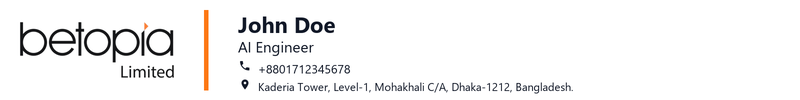
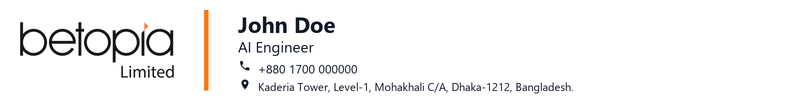
Update default phone number and format to +880 1700 000000

Changed region(s): [[0.3438, 0.63, 0.4688, 0.75]]

diff --git a/js/app.js b/js/app.js
@@ -49,7 +49,7 @@ document.addEventListener('DOMContentLoaded', async () => {
     const data = {
       name: (inputName && inputName.value.trim()) || 'John Doe',
       role: (inputRole && inputRole.value.trim()) || 'AI Engineer',
-      phone: (inputPhone && inputPhone.value.trim()) || '+8801712345678',
+      phone: (inputPhone && inputPhone.value.trim()) || '+880 1700 000000',
       address: COMPANY_ADDRESS,
       transparentBg: inputTransparent ? inputTransparent.checked : false,
       preset: selectedPreset
@@ -136,7 +136,7 @@ document.addEventListener('DOMContentLoaded', async () => {
   btnReset.addEventListener('click', () => {
     if (inputName) inputName.value = 'John Doe';
     if (inputRole) inputRole.value = 'AI Engineer';
-    if (inputPhone) inputPhone.value = '+8801712345678';
+    if (inputPhone) inputPhone.value = '+880 1700 000000';
     if (inputTransparent) inputTransparent.checked = false;
 
     scheduleRender(10);

diff --git a/index.html b/index.html
@@ -102,8 +102,8 @@
                 <path
                   d="M22 16.92v3a2 2 0 0 1-2.18 2 19.79 19.79 0 0 1-8.63-3.07 19.5 19.5 0 0 1-6-6 19.79 19.79 0 0 1-3.07-8.67A2 2 0 0 1 4.11 2h3a2 2 0 0 1 2 1.72 12.84 12.84 0 0 0 .7 2.81 2 2 0 0 1-.45 2.11L8.09 9.91a16 16 0 0 0 6 6l1.27-1.27a2 2 0 0 1 2.11-.45 12.84 12.84 0 0 0 2.81.7A2 2 0 0 1 22 16.92z" />
               </svg>
-              <input type="tel" id="input-phone" class="form-input" value="+8801712345678"
-                placeholder="e.g. +8801712345678" autocomplete="tel">
+              <input type="tel" id="input-phone" class="form-input" value="+880 1700 000000"
+                placeholder="e.g. +880 1700 000000" autocomplete="tel">
             </div>
           </div>
 

diff --git a/js/signatureRenderer.js b/js/signatureRenderer.js
@@ -155,7 +155,7 @@ class SignatureRenderer {
   async render({
     name = 'John Doe',
     role = 'AI Engineer',
-    phone = '+8801712345678',
+    phone = '+880 1700 000000',
     address = 'Kaderia Tower, Level-1, Mohakhali C/A, Dhaka-1212, Bangladesh.',
     transparentBg = false,
     preset = this.currentPreset

diff --git a/generate_signature.py b/generate_signature.py
@@ -89,7 +89,7 @@ def load_fonts(profile, scale=1):
 def generate_signature(
     name="John Doe",
     role="AI Engineer",
-    phone="+8801712345678",
+    phone="+880 1700 000000",
     address=DEFAULT_ADDRESS,
     dimension="800x100",
     logo_path=None,
@@ -213,7 +213,7 @@ def main():
     parser = argparse.ArgumentParser(description="Betopia Email Signature Generator")
     parser.add_argument("--name", default="John Doe", help="Full name")
     parser.add_argument("--role", default="AI Engineer", help="Job title or role")
-    parser.add_argument("--phone", default="+8801712345678", help="Phone number")
+    parser.add_argument("--phone", default="+880 1700 000000", help="Phone number")
     parser.add_argument("--address", default=DEFAULT_ADDRESS, help="Company address")
     parser.add_argument("--dimension", "-d", choices=["800x100"], default="800x100", help="Target signature dimension (800x100)")
     parser.add_argument("--format", choices=["png", "jpg", "jpeg"], default="png", help="Output format")

diff --git a/README.md b/README.md
@@ -21,7 +21,7 @@ Official email signature generation studio and automation utility for **Betopia 
 - **Dynamic User Inputs**:
   - Full Name (Default: `John Doe`)
   - Role / Title (Default: `AI Engineer`)
-  - Phone Number (Default: `+8801712345678`)
+  - Phone Number (Default: `+880 1700 000000`)
   - Transparent Background toggle (PNG)
 - **Interactive Web Studio**:
   - **Live Canvas Preview**: Real-time canvas rendering as you type at 1:1 pixel scale (800 × 100 px).
@@ -66,7 +66,7 @@ pip install pillow
 ### 2. Single Signature Generation
 ```bash
 # Generate 800x100 (default)
-python generate_signature.py --name "John Doe" --role "AI Engineer" --phone "+8801712345678"
+python generate_signature.py --name "John Doe" --role "AI Engineer" --phone "+880 1700 000000"
 ```
 
 ### 3. Batch Generation from CSV or JSON
@@ -75,7 +75,7 @@ To generate signatures for your entire team at once:
 Create a `team.csv` file:
 ```csv
 Name,Role,Phone
-John Doe,AI Engineer,+8801712345678
+John Doe,AI Engineer,+880 1700 000000
 Sarah Jenkins,Lead Product Designer,+8801712345679
 Michael Vance,VP of Engineering,+8801798765432
 ```
